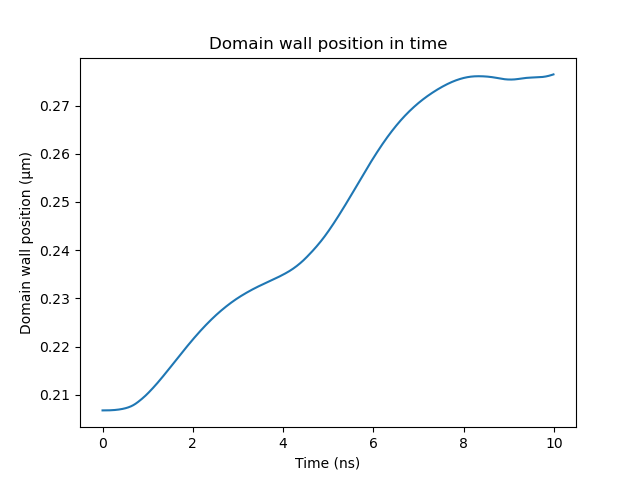
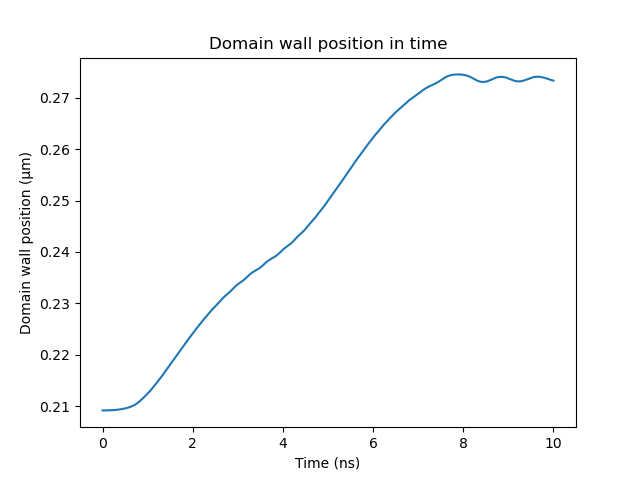
Update example images in documentation

diff --git a/examples/DW_rigid_strain_SAW.py b/examples/DW_rigid_strain_SAW.py
@@ -77,11 +77,12 @@ print("done!")
 
 # final magnetization
 plot_field(magnet.magnetization, ax=ax2, title="Final magnetization", show=True,
-           enable_quiver=False)
+           enable_quiver=False, file_name="../docs/images/DW_SAW.png")
 
 # plot DW position as a function of time
 plt.plot(np.array(output["time"])*1e9, np.array(output["DW_pos"])*1e6)
 plt.xlabel("Time (ns)")
 plt.ylabel("Domain wall position (µm)")
 plt.title("Domain wall position in time")
+plt.savefig("../docs/images/DW_SAW2.png")
 plt.show()

diff --git a/examples/voronoi.py b/examples/voronoi.py
@@ -52,6 +52,6 @@ magnet.scale_exchange = 0.9
 world.timesolver.run(0.1e-9)
 
 plot_field(magnet.magnetization)
-plot_field(magnet.kc1, imshow_kwargs={"cmap": "Greys"})
+plot_field(magnet.kc1, imshow_kwargs={"cmap": "Greys"}, enable_colorbar=False)
 
 show_regions(magnet, geometry=magnet.geometry, imshow_kwargs={"cmap":"Greys"})

diff --git a/docs/examples/voronoi.rst b/docs/examples/voronoi.rst
@@ -18,5 +18,7 @@ verification of MuMax3 <https://doi.org/10.1063/1.4899186>`_.
    :width: 45%
 
 .. image:: ../images/voronoi.png
-   :align: center
+   :width: 45%
+
+.. image:: ../images/voronoi_regions.png
    :width: 45%
